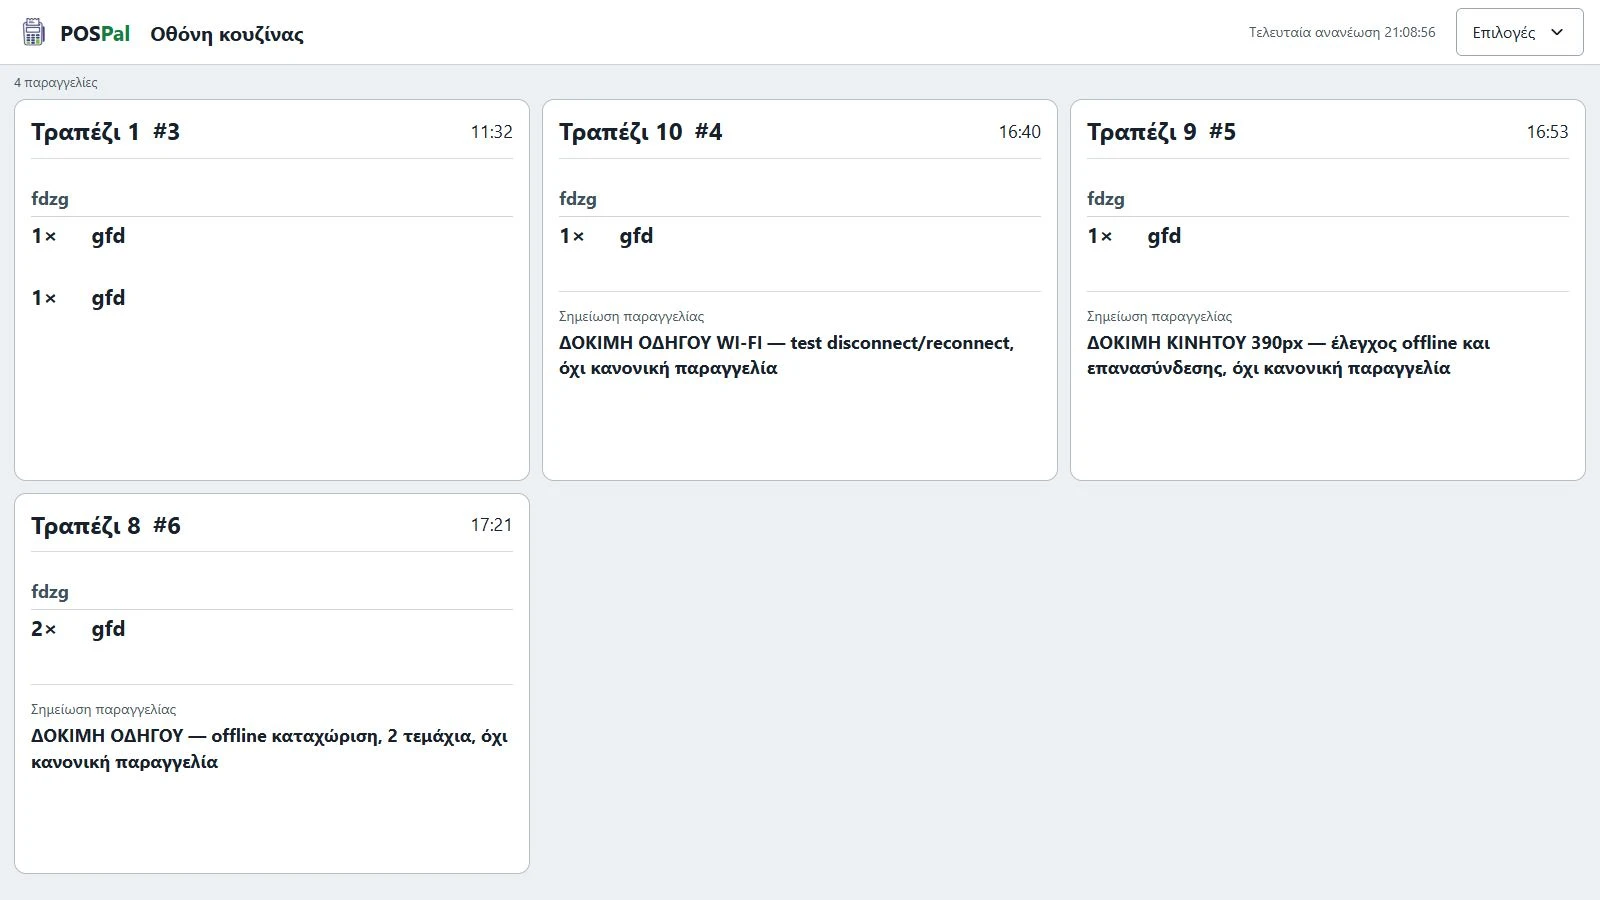
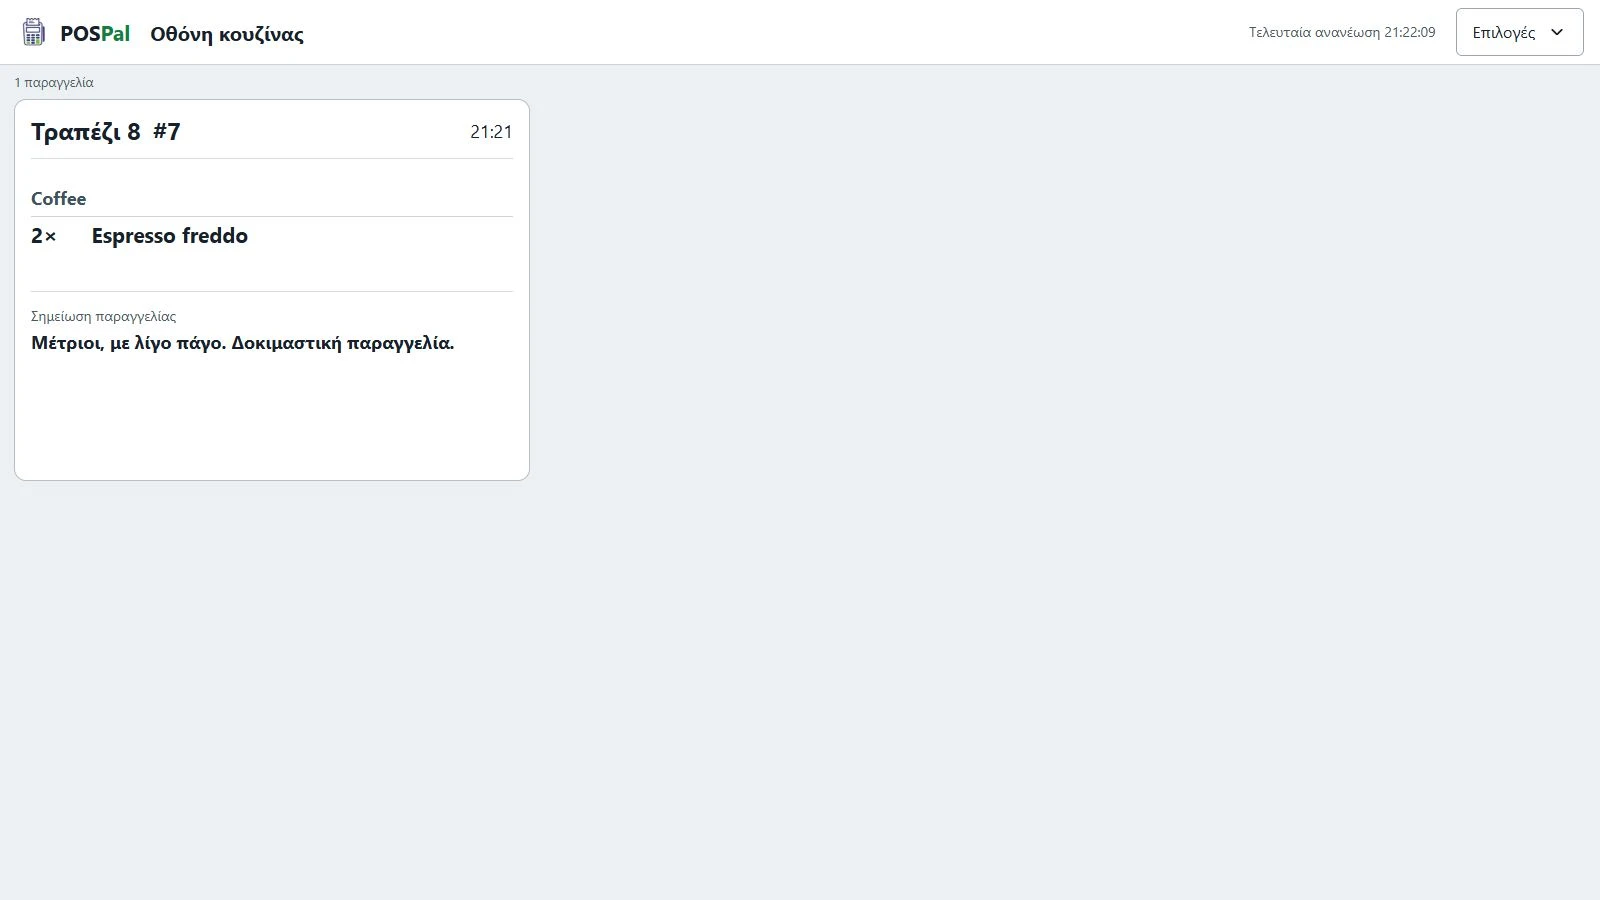
fix: retake ordering screenshots with real menu

diff --git a/paraggeliolipsia-xoris-wifi.html b/paraggeliolipsia-xoris-wifi.html
@@ -13,14 +13,14 @@
   <meta property="og:title" content="Παραγγελιοληψία χωρίς Wi-Fi: βήματα στο κινητό | POSPal">
   <meta property="og:description" content="Πώς παίρνεις παραγγελία στο POSPal όταν χαθεί το Wi-Fi: Αποστολή, Εκκρεμούν και επανασύνδεση. Δες τις ενδείξεις και πότε φτάνει η παραγγελία στην κουζίνα.">
   <meta property="og:url" content="https://pospal.gr/paraggeliolipsia-xoris-wifi.html">
-  <meta property="og:image" content="https://pospal.gr/static/img/articles/pospal-wifi-flow-pending.webp">
+  <meta property="og:image" content="https://pospal.gr/static/img/articles/pospal-wifi-flow-pending.webp?v=menu-20261116">
   <meta property="og:image:alt" content="Εκκρεμότητες συσκευής στο POSPal με παραγγελία σε αναμονή συγχρονισμού">
   <meta property="article:author" content="https://pospal.gr/sxetika-me-to-pospal/#robert-airey">
   <meta property="article:section" content="Παραγγελιοληψία">
   <meta name="twitter:card" content="summary_large_image">
   <meta name="twitter:title" content="Παραγγελιοληψία χωρίς Wi-Fi: βήματα στο κινητό | POSPal">
   <meta name="twitter:description" content="Πώς παίρνεις παραγγελία στο POSPal όταν χαθεί το Wi-Fi: Αποστολή, Εκκρεμούν και επανασύνδεση. Δες τις ενδείξεις και πότε φτάνει η παραγγελία στην κουζίνα.">
-  <meta name="twitter:image" content="https://pospal.gr/static/img/articles/pospal-wifi-flow-pending.webp">
+  <meta name="twitter:image" content="https://pospal.gr/static/img/articles/pospal-wifi-flow-pending.webp?v=menu-20261116">
   <meta name="twitter:image:alt" content="Εκκρεμότητες συσκευής στο POSPal με παραγγελία σε αναμονή συγχρονισμού">
   <link rel="icon" href="/static/img/pospal-icon-96.png" type="image/png" sizes="96x96">
   <link rel="apple-touch-icon" href="/static/img/pospal-icon-180.png" sizes="180x180">
@@ -47,7 +47,7 @@
         "datePublished": "2026-11-16",
         "dateModified": "2026-11-16",
         "articleSection": "Παραγγελιοληψία",
-        "image": "https://pospal.gr/static/img/articles/pospal-wifi-flow-pending.webp",
+        "image": "https://pospal.gr/static/img/articles/pospal-wifi-flow-pending.webp?v=menu-20261116",
         "author": {
           "@type": "Person",
           "@id": "https://pospal.gr/sxetika-me-to-pospal/#robert-airey",
@@ -112,7 +112,7 @@
           <p>Κάτω από την κεφαλίδα εμφανίζεται <strong>«Χωρίς σύνδεση με τον κεντρικό υπολογιστή»</strong>. Πατώντας την ειδοποίηση, ανοίγεις τις <strong>«Ενημερώσεις»</strong> για να δεις την κατάσταση σύνδεσης.</p>
           <p>Το <strong>«Μενού»</strong> παραμένει διαθέσιμο. Πατάς τα είδη, ανοίγεις τις <strong>«Παραγγελίες»</strong>, αλλάζεις ποσότητα με τα <strong>− / +</strong> και γράφεις τις <strong>«Σημειώσεις»</strong>. Όλα αυτά τα κάναμε εκτός σύνδεσης στη δοκιμή που βλέπεις παρακάτω.</p>
           <p class="wifi-swipe-hint">Δύο οθόνες · στο κινητό σύρε οριζόντια. Πάτησε μια εικόνα για μεγέθυνση.</p>
-          <div class="wifi-screen-pair" role="region" aria-label="Μενού και καταχώριση εκτός σύνδεσης" tabindex="0"><figure class="wifi-flow-shot"><a href="/static/img/articles/pospal-wifi-flow-menu.webp" target="_blank" rel="noopener" aria-label="Μενού POSPal στο κινητό με προειδοποίηση Χωρίς σύνδεση με τον κεντρικό υπολογιστή — μεγέθυνση σε νέα καρτέλα"><img src="/static/img/articles/pospal-wifi-flow-menu.webp" alt="Μενού POSPal στο κινητό με προειδοποίηση Χωρίς σύνδεση με τον κεντρικό υπολογιστή" width="390" height="844" loading="lazy" decoding="async"></a><figcaption>1/5 · Εκτός σύνδεσης, συνεχίζεις από το Μενού.</figcaption></figure><figure class="wifi-flow-shot"><a href="/static/img/articles/pospal-wifi-flow-order.webp" target="_blank" rel="noopener" aria-label="Παραγγελία για το Τραπέζι 8 εκτός σύνδεσης με ποσότητα 2, σημείωση και κουμπί Αποστολή — μεγέθυνση σε νέα καρτέλα"><img src="/static/img/articles/pospal-wifi-flow-order.webp" alt="Παραγγελία για το Τραπέζι 8 εκτός σύνδεσης με ποσότητα 2, σημείωση και κουμπί Αποστολή" width="390" height="844" loading="lazy" decoding="async"></a><figcaption>2/5 · Δύο τεμάχια, σημείωση και Αποστολή από το ίδιο κινητό.</figcaption></figure></div>
+          <div class="wifi-screen-pair" role="region" aria-label="Μενού και καταχώριση εκτός σύνδεσης" tabindex="0"><figure class="wifi-flow-shot"><a href="/static/img/articles/pospal-wifi-flow-menu.webp?v=menu-20261116" target="_blank" rel="noopener" aria-label="Μενού POSPal στο κινητό με προειδοποίηση Χωρίς σύνδεση με τον κεντρικό υπολογιστή — μεγέθυνση σε νέα καρτέλα"><img src="/static/img/articles/pospal-wifi-flow-menu.webp?v=menu-20261116" alt="Μενού POSPal στο κινητό με προειδοποίηση Χωρίς σύνδεση με τον κεντρικό υπολογιστή" width="390" height="844" loading="lazy" decoding="async"></a><figcaption>1/5 · Εκτός σύνδεσης, συνεχίζεις από το Μενού.</figcaption></figure><figure class="wifi-flow-shot"><a href="/static/img/articles/pospal-wifi-flow-order.webp?v=menu-20261116" target="_blank" rel="noopener" aria-label="Παραγγελία για το Τραπέζι 8 εκτός σύνδεσης με ποσότητα 2, σημείωση και κουμπί Αποστολή — μεγέθυνση σε νέα καρτέλα"><img src="/static/img/articles/pospal-wifi-flow-order.webp?v=menu-20261116" alt="Παραγγελία για το Τραπέζι 8 εκτός σύνδεσης με ποσότητα 2, σημείωση και κουμπί Αποστολή" width="390" height="844" loading="lazy" decoding="async"></a><figcaption>2/5 · Δύο τεμάχια, σημείωση και Αποστολή από το ίδιο κινητό.</figcaption></figure></div>
           <p>Πατάς <strong>«Αποστολή»</strong>. Όταν αποθηκευτεί τοπικά, εμφανίζεται:</p>
           <blockquote>Αποθηκεύτηκε στη συσκευή · Εκκρεμεί συγχρονισμός.</blockquote>
           <p>Αυτό σημαίνει ότι περιμένει στο κινητό σου. Δεν χρειάζεται να την ξαναγράψεις σε άλλη συσκευή. Η κουζίνα και οι συνάδελφοι δεν έχουν λάβει ακόμη αυτή την αλλαγή.</p>
@@ -123,7 +123,7 @@
           <p>Μετά την τοπική αποθήκευση, επιστρέφεις στα <strong>«Τραπέζια»</strong>. Το τραπέζι δείχνει την ένδειξη <strong>«1 εκκρεμεί για συγχρονισμό»</strong> και εμφανίζεται το κουμπί <strong>«Εκκρεμούν»</strong>, με τον αριθμό των τοπικών εκκρεμοτήτων. Το πατάς για να ανοίξεις τις <strong>«Εκκρεμότητες συσκευής»</strong>.</p>
           <p>Στην <strong>«Αναμονή συγχρονισμού»</strong> βλέπεις το τραπέζι και πόσα είδη περιμένουν. Η λίστα αφορά αυτό το κινητό, όπως γράφει και η ένδειξη <strong>«Μόνο αυτή η συσκευή»</strong>.</p>
           <p class="wifi-swipe-hint">Δύο οθόνες · το τραπέζι και η λίστα του «Εκκρεμούν».</p>
-          <div class="wifi-screen-pair" role="region" aria-label="Τοπική αποθήκευση και εκκρεμότητες συσκευής" tabindex="0"><figure class="wifi-flow-shot"><a href="/static/img/articles/pospal-wifi-flow-saved.webp" target="_blank" rel="noopener" aria-label="Τραπέζι 8 με ένδειξη 1 εκκρεμεί για συγχρονισμό και κουμπί Εκκρεμούν 1 — μεγέθυνση σε νέα καρτέλα"><img src="/static/img/articles/pospal-wifi-flow-saved.webp" alt="Τραπέζι 8 με ένδειξη 1 εκκρεμεί για συγχρονισμό και κουμπί Εκκρεμούν 1" width="390" height="844" loading="lazy" decoding="async"></a><figcaption>3/5 · Το τραπέζι δείχνει ότι η παραγγελία περιμένει στη συσκευή.</figcaption></figure><figure class="wifi-flow-shot"><a href="/static/img/articles/pospal-wifi-flow-pending.webp" target="_blank" rel="noopener" aria-label="Εκκρεμότητες συσκευής για το Τραπέζι 8: δύο είδη σε αναμονή συγχρονισμού — μεγέθυνση σε νέα καρτέλα"><img src="/static/img/articles/pospal-wifi-flow-pending.webp" alt="Εκκρεμότητες συσκευής για το Τραπέζι 8: δύο είδη σε αναμονή συγχρονισμού" width="390" height="844" loading="lazy" decoding="async"></a><figcaption>4/5 · Από το Εκκρεμούν βλέπεις τι περιμένει να σταλεί.</figcaption></figure></div>
+          <div class="wifi-screen-pair" role="region" aria-label="Τοπική αποθήκευση και εκκρεμότητες συσκευής" tabindex="0"><figure class="wifi-flow-shot"><a href="/static/img/articles/pospal-wifi-flow-saved.webp?v=menu-20261116" target="_blank" rel="noopener" aria-label="Τραπέζι 8 με ένδειξη 1 εκκρεμεί για συγχρονισμό και κουμπί Εκκρεμούν 1 — μεγέθυνση σε νέα καρτέλα"><img src="/static/img/articles/pospal-wifi-flow-saved.webp?v=menu-20261116" alt="Τραπέζι 8 με ένδειξη 1 εκκρεμεί για συγχρονισμό και κουμπί Εκκρεμούν 1" width="390" height="844" loading="lazy" decoding="async"></a><figcaption>3/5 · Το τραπέζι δείχνει ότι η παραγγελία περιμένει στη συσκευή.</figcaption></figure><figure class="wifi-flow-shot"><a href="/static/img/articles/pospal-wifi-flow-pending.webp?v=menu-20261116" target="_blank" rel="noopener" aria-label="Εκκρεμότητες συσκευής για το Τραπέζι 8: δύο είδη σε αναμονή συγχρονισμού — μεγέθυνση σε νέα καρτέλα"><img src="/static/img/articles/pospal-wifi-flow-pending.webp?v=menu-20261116" alt="Εκκρεμότητες συσκευής για το Τραπέζι 8: δύο είδη σε αναμονή συγχρονισμού" width="390" height="844" loading="lazy" decoding="async"></a><figcaption>4/5 · Από το Εκκρεμούν βλέπεις τι περιμένει να σταλεί.</figcaption></figure></div>
           <p>Μπορείς να κλείσεις το παράθυρο και να συνεχίσεις. Το POSPal εξακολουθεί να προσπαθεί στο παρασκήνιο.</p>
         </section>
 
@@ -132,8 +132,8 @@
           <p>Μόλις το κινητό επικοινωνήσει ξανά με τον υπολογιστή, το POSPal επιχειρεί αυτόματα να στείλει τις αποθηκευμένες ενέργειες με τη σειρά τους. Δεν χρειάζεται να ξαναπεράσεις τα είδη. Όταν ολοκληρωθούν όλες οι εκκρεμότητες της συσκευής, φεύγει και το «Εκκρεμούν».</p>
           <p>Αν θέλεις να ζητήσεις νέα προσπάθεια, υπάρχει το <strong>«Συγχρονισμός τώρα»</strong> στις εκκρεμότητες.</p>
           <p>Αν κάτι παραμείνει <strong>για έλεγχο</strong>, ανοίγεις την εκκρεμότητα, διαβάζεις την αιτία και ελέγχεις την τρέχουσα παραγγελία του τραπεζιού. Για παράδειγμα, το τραπέζι μπορεί να άλλαξε όσο έλειπες. Δεν θεωρείς την εκκρεμότητα ολοκληρωμένη μόνο επειδή επέστρεψε το Wi-Fi.</p>
-          <p>Στην ίδια δοκιμή, μετά την επανασύνδεση εμφανίστηκε στην <strong>«Οθόνη κουζίνας»</strong> η παραγγελία <strong>#6 για το Τραπέζι 8</strong>: δύο τεμάχια και η σημείωση που γράψαμε εκτός σύνδεσης. Δεν ξαναπεράσαμε τα είδη. Αν χρησιμοποιείς εκτυπωτή, ελέγχεις ξεχωριστά και την εκτύπωση.</p>
-          <figure class="wifi-flow-shot wifi-kitchen-proof"><a href="/static/img/articles/pospal-wifi-flow-kitchen-desktop.webp" target="_blank" rel="noopener" aria-label="Οθόνη κουζίνας στον υπολογιστή με την παραγγελία 6 για το Τραπέζι 8, δύο τεμάχια και τη σημείωση της offline δοκιμής — μεγέθυνση σε νέα καρτέλα"><img src="/static/img/articles/pospal-wifi-flow-kitchen-desktop.webp" alt="Οθόνη κουζίνας στον υπολογιστή με την παραγγελία 6 για το Τραπέζι 8, δύο τεμάχια και τη σημείωση της offline δοκιμής" width="1600" height="900" loading="lazy" decoding="async"></a><figcaption>5/5 · Στον υπολογιστή της κουζίνας: η παραγγελία #6 για το Τραπέζι 8, με τα δύο τεμάχια και τη σημείωση.</figcaption></figure>
+          <p>Στην ίδια δοκιμή, μετά την επανασύνδεση εμφανίστηκε στην <strong>«Οθόνη κουζίνας»</strong> η παραγγελία <strong>#7 για το Τραπέζι 8</strong>: δύο τεμάχια και η σημείωση που γράψαμε εκτός σύνδεσης. Δεν ξαναπεράσαμε τα είδη. Αν χρησιμοποιείς εκτυπωτή, ελέγχεις ξεχωριστά και την εκτύπωση.</p>
+          <figure class="wifi-flow-shot wifi-kitchen-proof"><a href="/static/img/articles/pospal-wifi-flow-kitchen-desktop.webp?v=menu-20261116" target="_blank" rel="noopener" aria-label="Οθόνη κουζίνας στον υπολογιστή με την παραγγελία 7 για το Τραπέζι 8, δύο τεμάχια και τη σημείωση της offline δοκιμής — μεγέθυνση σε νέα καρτέλα"><img src="/static/img/articles/pospal-wifi-flow-kitchen-desktop.webp?v=menu-20261116" alt="Οθόνη κουζίνας στον υπολογιστή με την παραγγελία 7 για το Τραπέζι 8, δύο τεμάχια και τη σημείωση της offline δοκιμής" width="1600" height="900" loading="lazy" decoding="async"></a><figcaption>5/5 · Στον υπολογιστή της κουζίνας: η παραγγελία #7 για το Τραπέζι 8, με τα δύο τεμάχια και τη σημείωση.</figcaption></figure>
         </section>
 
         <aside class="boundary-note" aria-label="Wi-Fi και internet">

diff --git a/graphify-out/GRAPH_REPORT.md b/graphify-out/GRAPH_REPORT.md
@@ -750,3 +750,9 @@ Added the desktop stylesheet node and three EXTRACTED dependency/provenance edge
 
 - The four waiter screenshots remain mobile. The fifth image is now a fresh 1600 × 900 desktop kitchen capture of the same Table 8 order #6, two units and original test note. No new app data or orders created.
 - `static/img/articles/pospal-wifi-flow-kitchen-desktop.webp` replaces the phone-width kitchen asset. Figure width, intrinsic dimensions, alt/accessible text, caption and introductory proof note now identify the desktop kitchen.
+
+## Real-menu screenshot refresh — 2026-11-16
+
+- Retook the five existing proof assets using the owner-updated Coffee menu: two Espresso freddo at EUR 3.80 each, Table 8, order #7, note `Μέτριοι, με λίγο πάγο. Δοκιμαστική παραγγελία.`
+- Four staff captures remain 390 × 844; the kitchen capture remains desktop at 1600 × 900. Quantity and note entered while disconnected; one pending order observed; automatic replay and exact quantity/note confirmed in the kitchen. No payment or printer action. Browser overrides restored.
+- Replaced image bytes at the maintained static paths and versioned their article references to bypass cached dummy-menu screenshots. Only order references changed in the article text.
